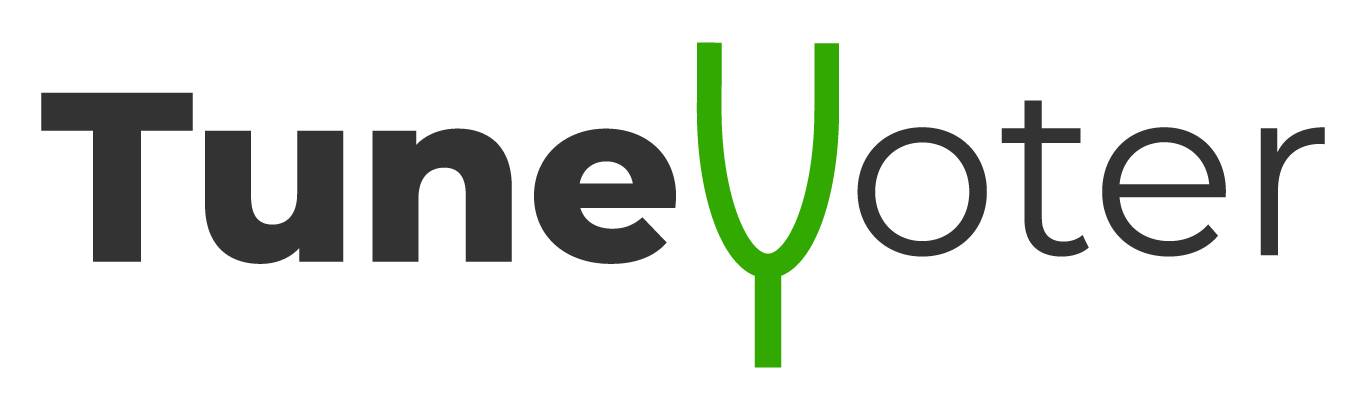
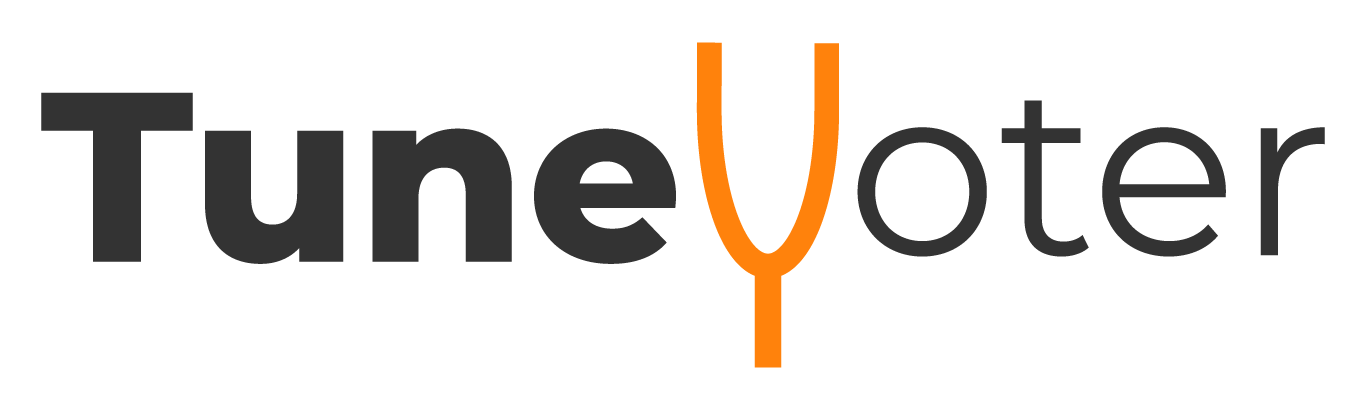
orange

Changed region(s): [[0.4919, 0.0878, 0.6149, 0.9073]]

diff --git a/src/Homepage.jsx b/src/Homepage.jsx
@@ -47,7 +47,7 @@ const HomepageHeading = ({ mobile }) => (
     />
     <Button
       inverted
-      color="green"
+      color="orange"
       onClick={() => (window.location.href = "http://app.tunevoter.com/signup")}
       style={{
         position: "absolute",
@@ -98,7 +98,7 @@ class DesktopContainer extends Component {
                 }
                 as="a"
                 style={{ marginLeft: "0.5em" }}
-                color="green"
+                color="orange"
                 inverted
               >
                 Sign Up
@@ -149,7 +149,7 @@ class MobileContainer extends Component {
                 as="a"
                 style={{ marginLeft: "0.5em" }}
                 inverted
-                color="green"
+                color="orange"
               >
                 Sign Up
               </Button>
